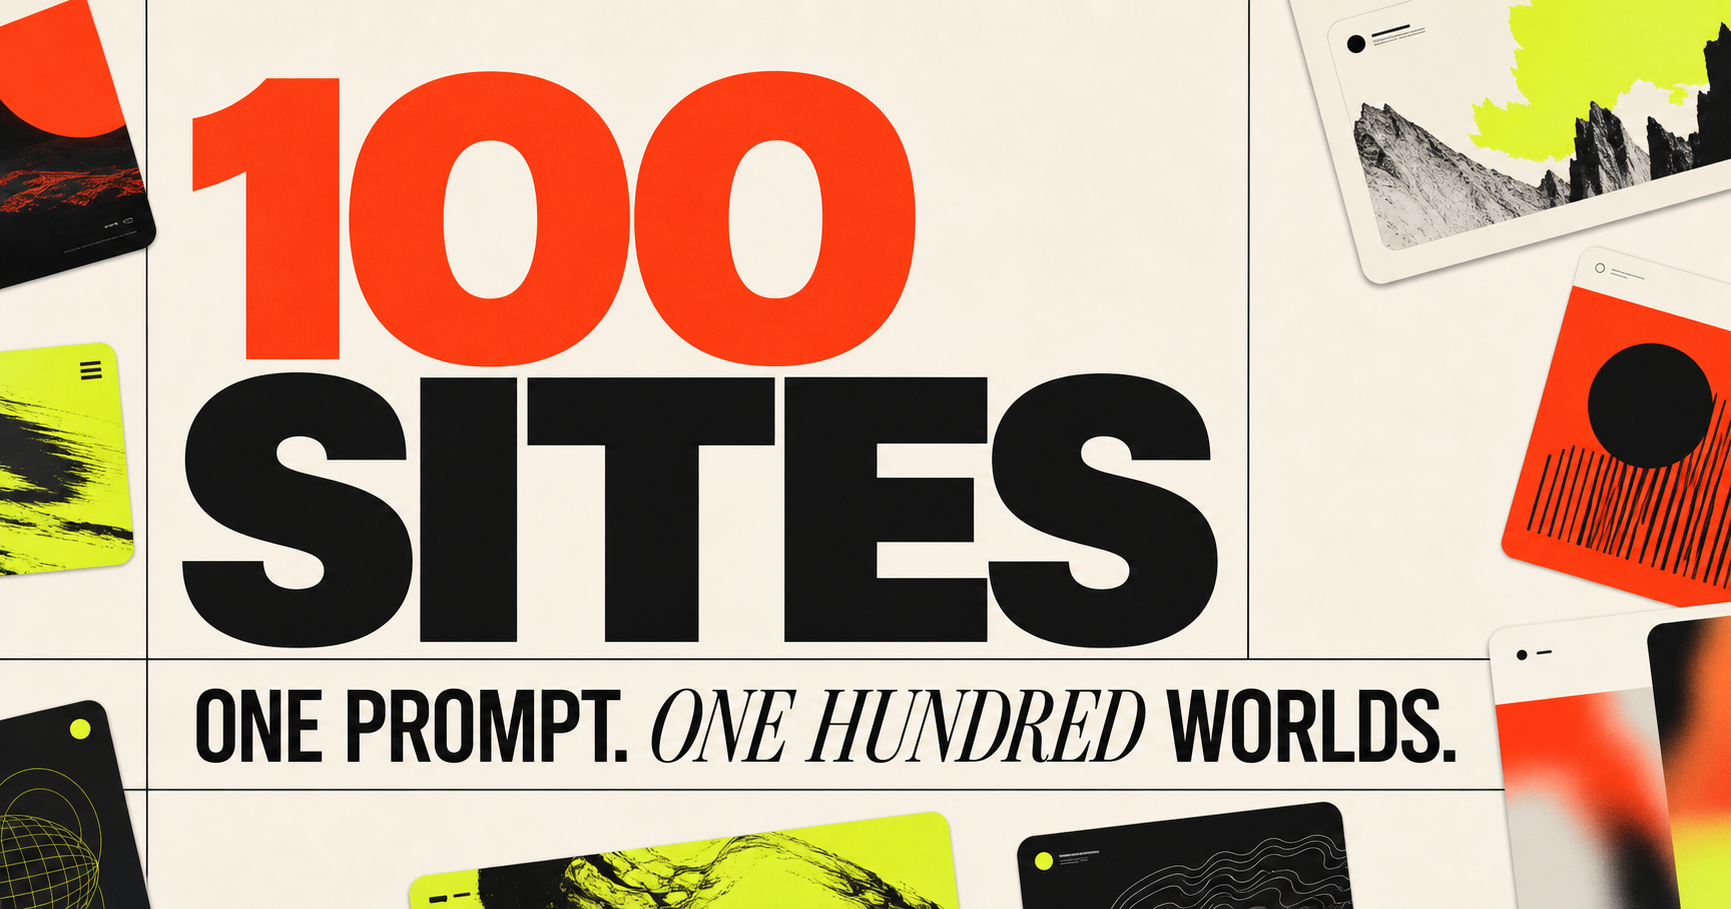
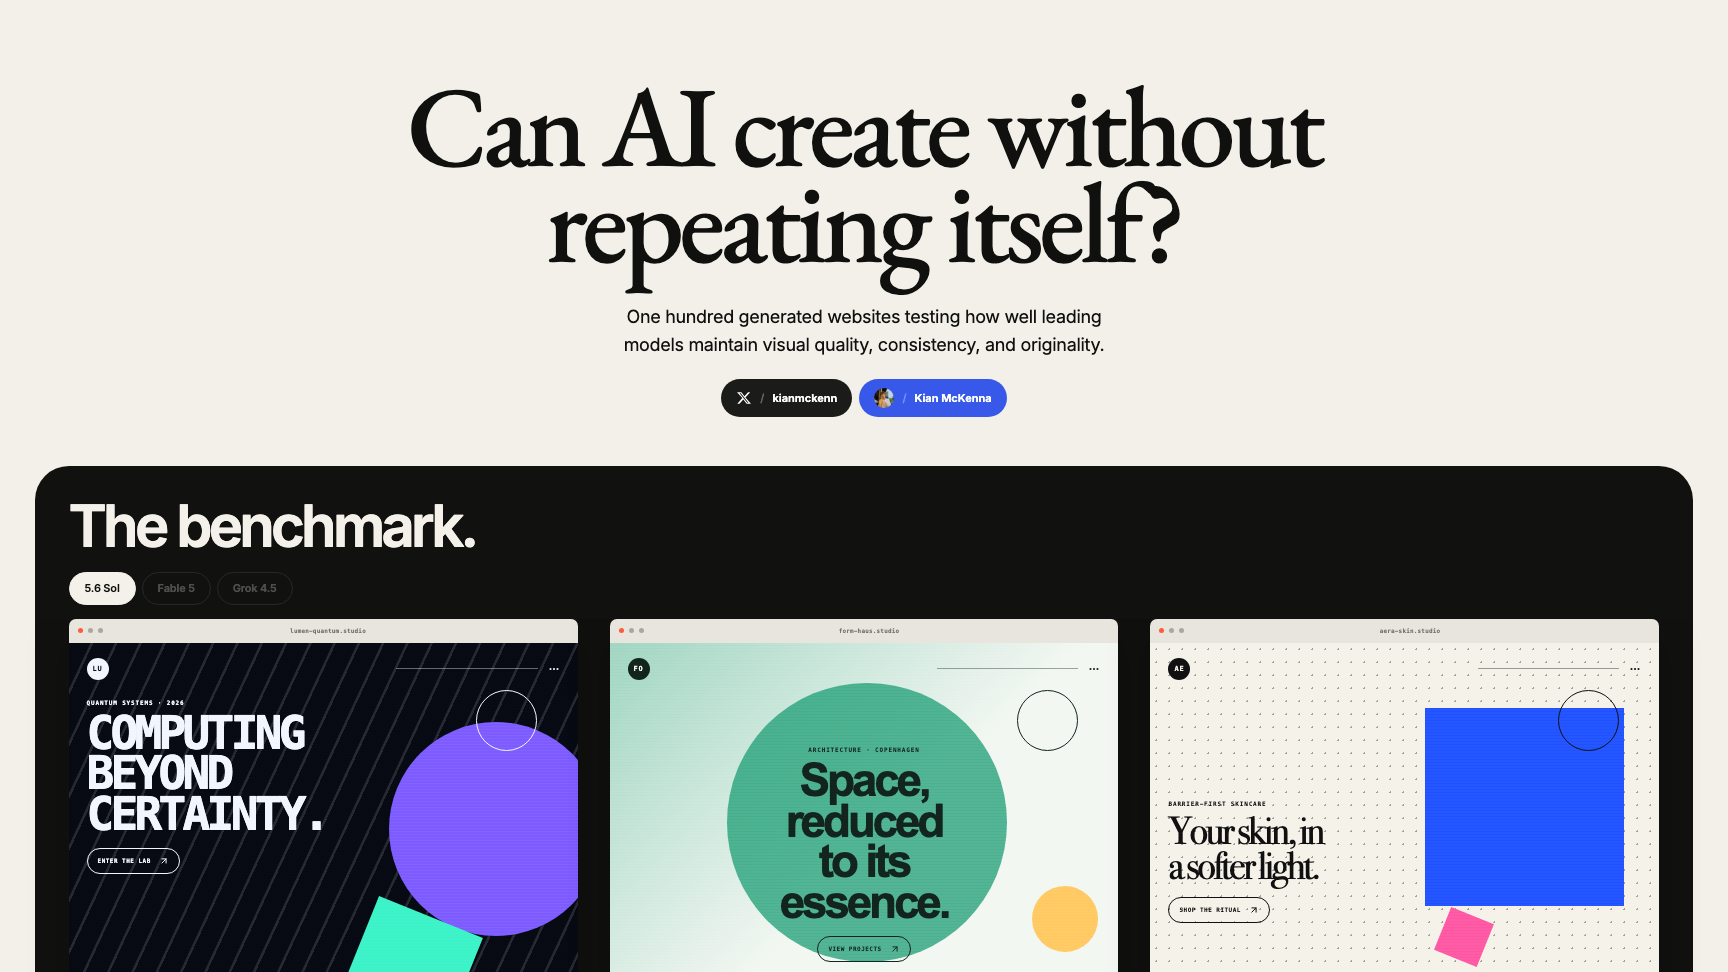
Polish benchmark navigation and sharing image

diff --git a/src/routes/+page.svelte b/src/routes/+page.svelte
@@ -20,6 +20,11 @@
 	let filter = $state('5.6 Sol');
 	let expandOrigin = $state<{ x: number; y: number; scaleX: number; scaleY: number } | null>(null);
 	let collectionElement: HTMLElement;
+	let showReturnToTop = $state(false);
+	let pullStartY: number | null = null;
+	let pullDistance = 0;
+	let wheelPull = 0;
+	let wheelResetTimer: ReturnType<typeof setTimeout> | undefined;
 
 	let visibleSites = $derived(sites);
 
@@ -45,9 +50,44 @@
 	}
 
 	function closeSite() {
+		pullStartY = null;
+		pullDistance = 0;
+		wheelPull = 0;
+		if (wheelResetTimer) clearTimeout(wheelResetTimer);
 		selected = null;
 		expandOrigin = null;
 		if (browser) history.pushState(null, '', window.location.pathname + window.location.search);
+	}
+
+	function handleViewerTouchStart(event: TouchEvent) {
+		const viewerSite = event.currentTarget as HTMLDivElement;
+		pullStartY = viewerSite.scrollTop <= 0 ? event.touches[0]?.clientY ?? null : null;
+		pullDistance = 0;
+	}
+
+	function handleViewerTouchMove(event: TouchEvent) {
+		const viewerSite = event.currentTarget as HTMLDivElement;
+		if (pullStartY === null || viewerSite.scrollTop > 0) return;
+		pullDistance = Math.max(0, (event.touches[0]?.clientY ?? pullStartY) - pullStartY);
+		if (pullDistance >= 110) closeSite();
+	}
+
+	function handleViewerTouchEnd() {
+		pullStartY = null;
+		pullDistance = 0;
+	}
+
+	function handleViewerWheel(event: WheelEvent) {
+		const viewerSite = event.currentTarget as HTMLDivElement;
+		if (viewerSite.scrollTop > 0 || event.deltaY >= 0) {
+			wheelPull = 0;
+			return;
+		}
+
+		wheelPull += -event.deltaY;
+		if (wheelResetTimer) clearTimeout(wheelResetTimer);
+		wheelResetTimer = setTimeout(() => (wheelPull = 0), 180);
+		if (wheelPull >= 180) closeSite();
 	}
 
 	function step(direction: number) {
@@ -79,6 +119,7 @@
 				if (!collectionElement) return;
 				const collectionTop = collectionElement.offsetTop;
 				const scrollPosition = window.scrollY;
+				showReturnToTop = scrollPosition > collectionTop;
 				const progress = Math.min(1, Math.max(0, scrollPosition / Math.max(collectionTop, 1)));
 				const overscrollProgress = Math.min(1, Math.max(0, -scrollPosition / 96));
 				const insetProgress = Math.max(progress, overscrollProgress);
@@ -139,7 +180,7 @@
 					<a class="profile-pill x-profile" href="https://x.com/kianmckenn" target="_blank" rel="noreferrer" aria-label="Follow @kianmckenn on X">
 						<span class="profile-icon"><svg class="x-mark" viewBox="0 0 24 24" aria-hidden="true"><path d="M18.9 2h3.7l-8.1 9.2L24 22h-7.4l-5.8-7.6L4.2 22H.5l8.6-9.8L0 2h7.6l5.2 6.9L18.9 2Zm-1.3 18.1h2L6.5 3.8H4.4l13.2 16.3Z" /></svg></span>
 						<span class="profile-divider" aria-hidden="true">/</span>
-						<span>@kianmckenn</span>
+						<span>kianmckenn</span>
 					</a>
 					<a class="profile-pill site-profile" href="https://kian.im" target="_blank" rel="noreferrer" aria-label="Visit Kian McKenna's personal website">
 						<span class="profile-icon avatar-icon"><img src="/kian-avatar.png" alt="" /></span>
@@ -155,7 +196,7 @@
 	<section class="collection" id="collection" bind:this={collectionElement}>
 		<div class="collection-head">
 			<div>
-				<h2>The collection.</h2>
+				<h2>The benchmark.</h2>
 			</div>
 		</div>
 
@@ -186,10 +227,19 @@
 		</div>
 
 		<footer class="gallery-footer">
-			<p>One hundred websites.<br />A study in style, repetition, and surprise.</p>
-			<a href="#top" aria-label="Back to the top" title="Back to the top"><ArrowUp size={20} strokeWidth={2.2} /></a>
+			<p>A study in style, repetition, and surprise.</p>
 		</footer>
 	</section>
+
+	<a
+		class="return-to-top"
+		class:visible={showReturnToTop}
+		href="#top"
+		aria-label="Back to the top"
+		title="Back to the top"
+		aria-hidden={!showReturnToTop}
+		tabindex={showReturnToTop ? 0 : -1}
+	><ArrowUp size={20} strokeWidth={2.2} /></a>
 </main>
 
 {#if selected}
@@ -201,12 +251,20 @@
 		aria-modal="true"
 		aria-label={`${selected.name} website`}
 	>
-		<div class="viewer-site">
+		<div
+			class="viewer-site"
+			role="document"
+			onwheel={handleViewerWheel}
+			ontouchstart={handleViewerTouchStart}
+			ontouchmove={handleViewerTouchMove}
+			ontouchend={handleViewerTouchEnd}
+			ontouchcancel={handleViewerTouchEnd}
+		>
 			<SiteExperience site={selected} />
 		</div>
 		<div class="viewer-controls">
 			<button class="close-control" onclick={closeSite} aria-label="Close site and return to gallery" title="Close"><X size={16} strokeWidth={2.2} /></button>
-			<div class="viewer-id"><span>{String(selected.id).padStart(3, '0')}</span><i></i><span>100</span></div>
+			<div class="viewer-id"><span>{String(selected.id).padStart(3, '0')}</span></div>
 			<div class="right-controls">
 				<button class="step-control" onclick={() => step(-1)} aria-label="Previous website" title="Previous site"><ChevronLeft size={19} strokeWidth={2.3} /></button>
 				<button class="step-control" onclick={() => step(1)} aria-label="Next website" title="Next site"><ChevronRight size={19} strokeWidth={2.3} /></button>
@@ -272,11 +330,12 @@
 	.card-caption h3 { margin: 0; overflow: hidden; font-size: 16px; font-weight: 650; letter-spacing: -0.035em; text-overflow: ellipsis; white-space: nowrap; }
 	.card-caption p { flex: none; margin: 2px 0 0; color: #85877f; font: 700 8px/1 ui-monospace, monospace; letter-spacing: 0.07em; text-transform: uppercase; }
 
-	.gallery-footer { display: grid; grid-template-columns: 1fr auto; gap: 60px; margin-top: 80px; padding: 40px 0 50px; }
+	.gallery-footer { margin-top: 80px; padding: 40px 0 50px; }
 	.gallery-footer p { margin: 0; font-size: clamp(42px, 6vw, 90px); font-weight: 600; line-height: 0.88; letter-spacing: -0.07em; }
-	.gallery-footer > a { display: inline-flex; width: 48px; height: 48px; align-items: center; justify-content: center; align-self: end; border-radius: 50%; background: #f3f1e9; color: #111210; text-decoration: none; transition: transform 180ms ease, background 180ms ease; }
-	.gallery-footer > a:hover { background: #fff; transform: translateY(-3px); }
-	.gallery-footer > a:focus-visible { outline: 2px solid var(--gallery-accent); outline-offset: 3px; }
+	.return-to-top { position: fixed; z-index: 80; right: clamp(16px, 2vw, 28px); bottom: clamp(16px, 2vw, 28px); display: inline-flex; width: 48px; height: 48px; align-items: center; justify-content: center; border-radius: 50%; background: #f3f1e9; color: #111210; box-shadow: 0 10px 30px rgba(0, 0, 0, 0.18); text-decoration: none; opacity: 0; visibility: hidden; transform: translateY(10px) scale(0.92); pointer-events: none; transition: opacity 240ms ease, visibility 0s linear 240ms, transform 320ms cubic-bezier(.2,.8,.2,1), background 180ms ease; }
+	.return-to-top.visible { opacity: 1; visibility: visible; transform: translateY(0) scale(1); pointer-events: auto; transition-delay: 0s; }
+	.return-to-top:hover { background: #fff; transform: translateY(-3px) scale(1); }
+	.return-to-top:focus-visible { outline: 2px solid var(--gallery-accent); outline-offset: 3px; }
 
 	.viewer { position: fixed; z-index: 1000; inset: 0; overflow: hidden; background: #0c0c0b; }
 	.viewer-site { height: 100%; overflow: auto; overscroll-behavior: contain; }
@@ -297,8 +356,7 @@
 	.viewer-controls button:hover, .viewer-controls button:focus-visible { background: rgba(255, 255, 255, 0.1); }
 	.viewer-controls button:focus-visible { outline: 1px solid rgba(255, 255, 255, 0.7); outline-offset: -1px; }
 	.close-control { display: grid; width: 34px; place-items: center; margin-right: 4px; padding: 0; background: #fff !important; color: #111 !important; box-shadow: 5px 0 0 -4px rgba(255, 255, 255, 0.18) !important; cursor: pointer; }
-	.viewer-id { display: flex; align-items: center; gap: 6px; margin-right: 2px; padding: 0 11px 0 8px; border-radius: 0; box-shadow: 1px 0 0 rgba(255, 255, 255, 0.14); font: 750 7px/1 ui-monospace, monospace; pointer-events: none; }
-	.viewer-id i { width: 18px; height: 1px; background: rgba(255, 255, 255, 0.38); }
+	.viewer-id { display: flex; align-items: center; margin-right: 2px; padding: 0 13px 0 10px; border-radius: 0; box-shadow: 1px 0 0 rgba(255, 255, 255, 0.14); font: 750 11px/1 ui-monospace, monospace; pointer-events: none; }
 	.right-controls { display: flex; gap: 2px; pointer-events: auto; }
 	.right-controls button { display: grid; min-width: 32px; padding: 0; place-items: center; cursor: pointer; }
 	.right-controls .step-control { min-width: 35px; }
@@ -323,23 +381,20 @@
 		.site-grid { grid-template-columns: 1fr; row-gap: 55px; }
 		.preview-viewport { height: clamp(280px, 71vw, 460px); }
 		.card-caption h3 { font-size: 18px; }
-		.gallery-footer { grid-template-columns: 1fr; }
-		.gallery-footer > a { justify-self: end; }
 	}
 
 	@media (max-width: 430px) {
 		.preview-viewport { height: 280px; }
 		.card-caption p { display: none; }
 		.viewer-controls { bottom: 8px; max-width: calc(100vw - 12px); }
-		.viewer-id { padding-inline: 7px 9px; }
-		.viewer-id i { width: 14px; }
+		.viewer-id { padding-inline: 9px 11px; }
 		.right-controls button { min-width: 30px; }
 		.right-controls .step-control { min-width: 33px; }
 	}
 
 	@media (prefers-reduced-motion: reduce) {
 		:global(html) { scroll-behavior: auto; }
-		.preview-window, .open-cue { transition: none; }
+		.preview-window, .open-cue, .return-to-top { transition: none; }
 		.viewer.from-card .viewer-site, .viewer.from-card .viewer-controls { animation: none; }
 	}
 </style>

diff --git a/src/lib/components/SiteExperience.svelte b/src/lib/components/SiteExperience.svelte
@@ -12,7 +12,7 @@
 </script>
 
 <article
-	class="experience {site.layout} {site.pattern} {site.typeface}"
+	class="experience site-{site.id} {site.layout} {site.pattern} {site.typeface}"
 	style="--site-bg:{site.palette.bg}; --site-ink:{site.palette.ink}; --site-accent:{site.palette.accent}; --site-accent-2:{site.palette.accent2}; --site-muted:{site.palette.muted};"
 >
 	<div class="atmosphere" aria-hidden="true"></div>
@@ -353,6 +353,9 @@
 	.condensed h1 { font-family: Impact, 'Arial Narrow', sans-serif; font-weight: 500; letter-spacing: -0.045em; text-transform: uppercase; }
 	.display h1 { font-family: 'Bodoni 72', Didot, Georgia, serif; font-weight: 500; letter-spacing: -0.075em; }
 	.humanist h1 { font-family: Optima, Candara, sans-serif; font-weight: 600; letter-spacing: -0.06em; }
+
+	/* Site 004: preserve the poster scale without colliding letterforms. */
+	.site-4 .poster-main h1 { max-width: 84vw; font-family: 'Inter Variable', Inter, system-ui, sans-serif; font-size: clamp(82px, 12vw, 190px); font-weight: 780; line-height: 0.79; letter-spacing: -0.055em; text-wrap: balance; }
 
 	@media (max-width: 860px) {
 		.site-nav nav { display: none; }
